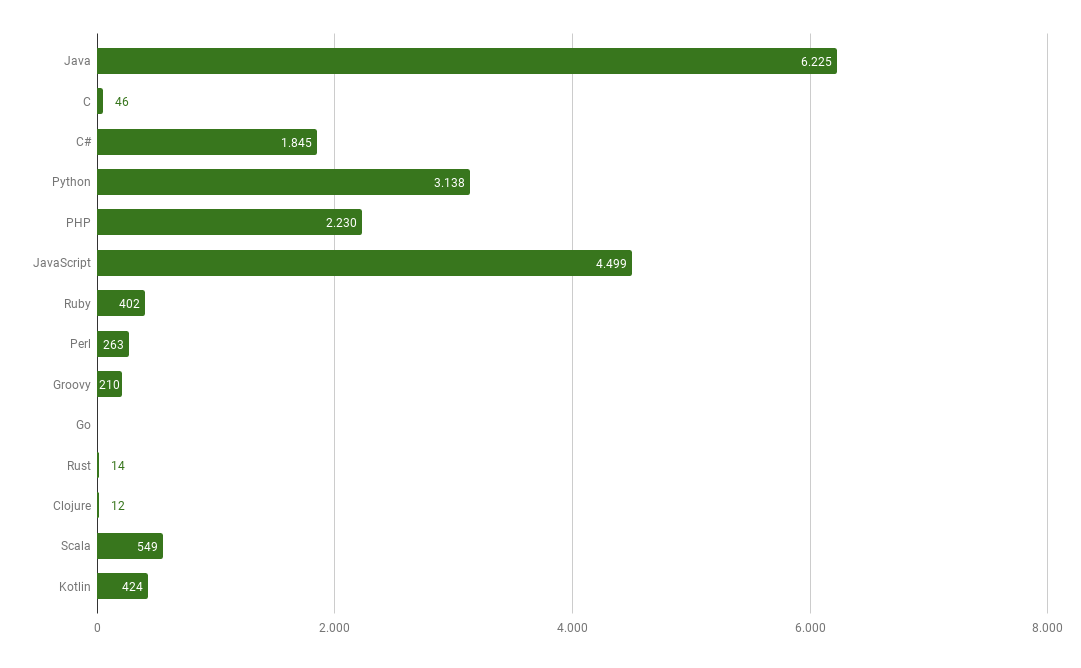
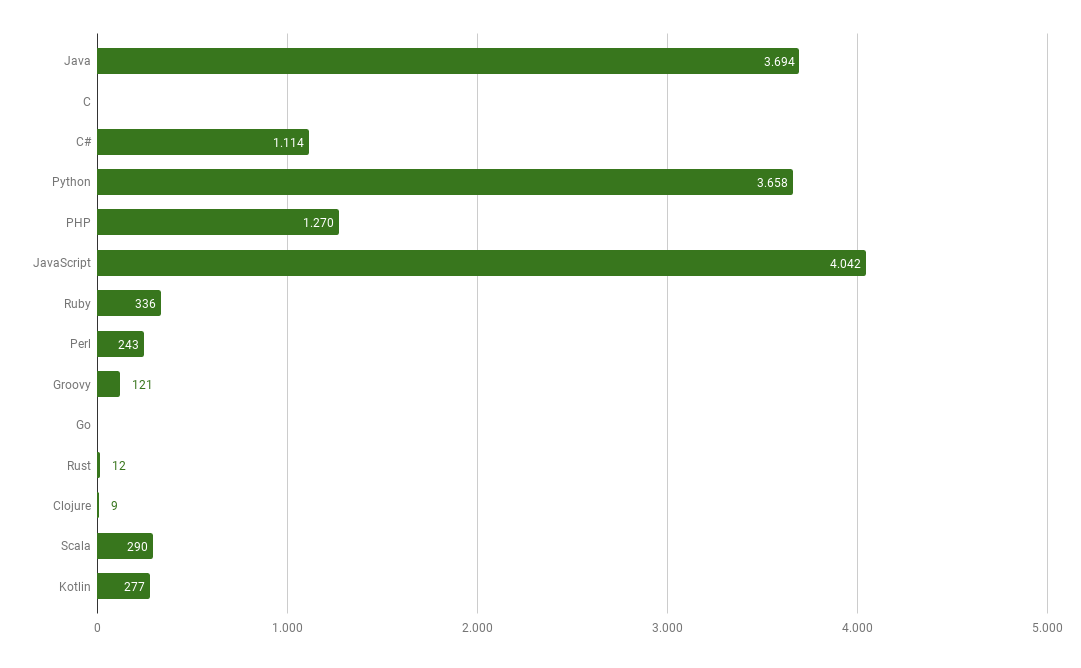
LinkedIn jobs updated

diff --git a/index.html b/index.html
@@ -289,7 +289,7 @@
 				<div class="slide-content">
 					<img src="img/jobs_posted_linkedin_spain.png" alt="# jobs posted on LinkedIn (in Spain)" class="img_full full_height" />
 					<div class="source">
-						<p>Source: <a href="https://www.linkedin.com/jobs/">LinkedIn.com/jobs</a> (Nov 2019)</p>
+						<p>Source: <a href="https://www.linkedin.com/jobs/">LinkedIn.com/jobs</a> (Sep 2020)</p>
 					</div>
 				</div>
 				<aside class="notes">
